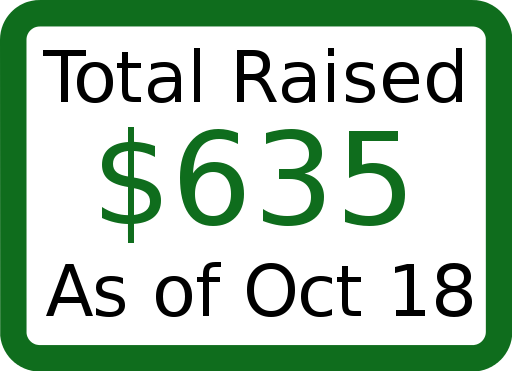
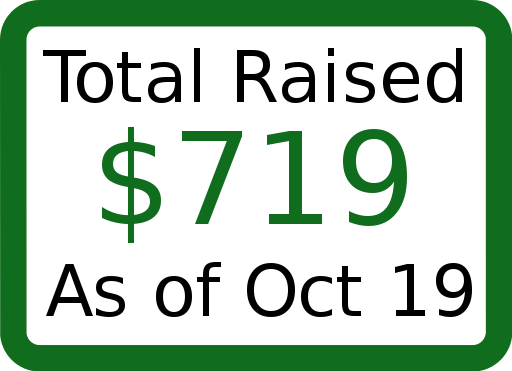
update fundraising

diff --git a/src/ONN/AesopGamesBundle/Controller/PageController.php b/src/ONN/AesopGamesBundle/Controller/PageController.php
@@ -89,18 +89,17 @@ class PageController extends Controller
         ];
         //$types = ['comingsoon','live','stretch','complete-no','complete-yes'];
         $types = ['comingsoon'];
-        $live = ['rockethub','indiegogo','kickstarter'];
+        $live = ['rockethub','indiegogo'];
         $success = ['epocu'];
+        $stretch = ['kickstarter'];
         $images = [];
 
+        $type = 'comingsoon';
         foreach ($names as $name=>$url){
-            if (!in_array($name,$live) && !in_array($name,$success)){
-                $type = 'comingsoon';
-            } elseif (!in_array($name,$live)) {
-                $type = 'complete-yes';
-            } else {
-                $type = 'live';
-            }
+            if (in_array($name,$live)){ $type = 'live'; }
+            if (in_array($name,$success)) { $type = 'success'; }
+            if (in_array($name,$stretch)) { $type = 'stretch'; }
+
             if (strpos($currentUrl,'localhost') !== false){
                 $images[$name][$type]['image'] = '/Aesop/web/bundles/onnaesopgames/images/Fundraisers/'.$name.'-small-'.$type.'.png';
             } else {
